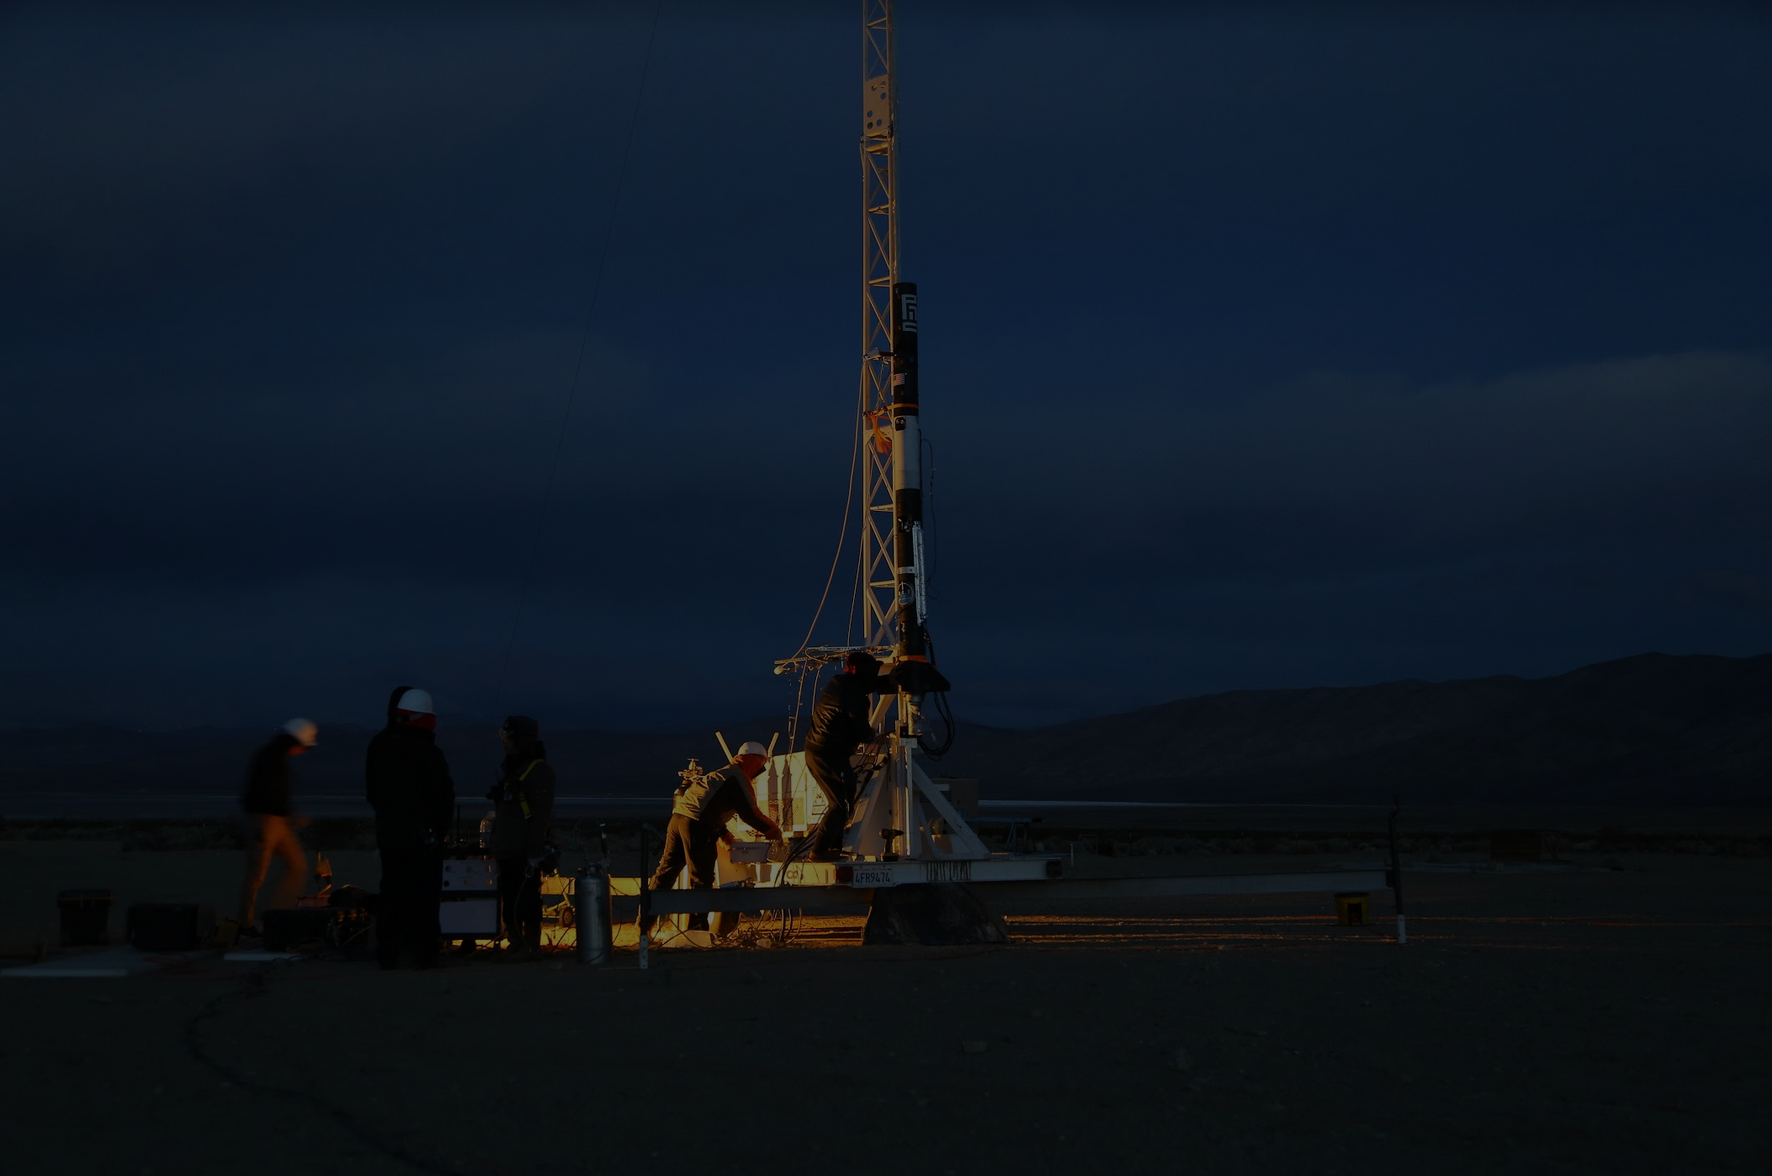
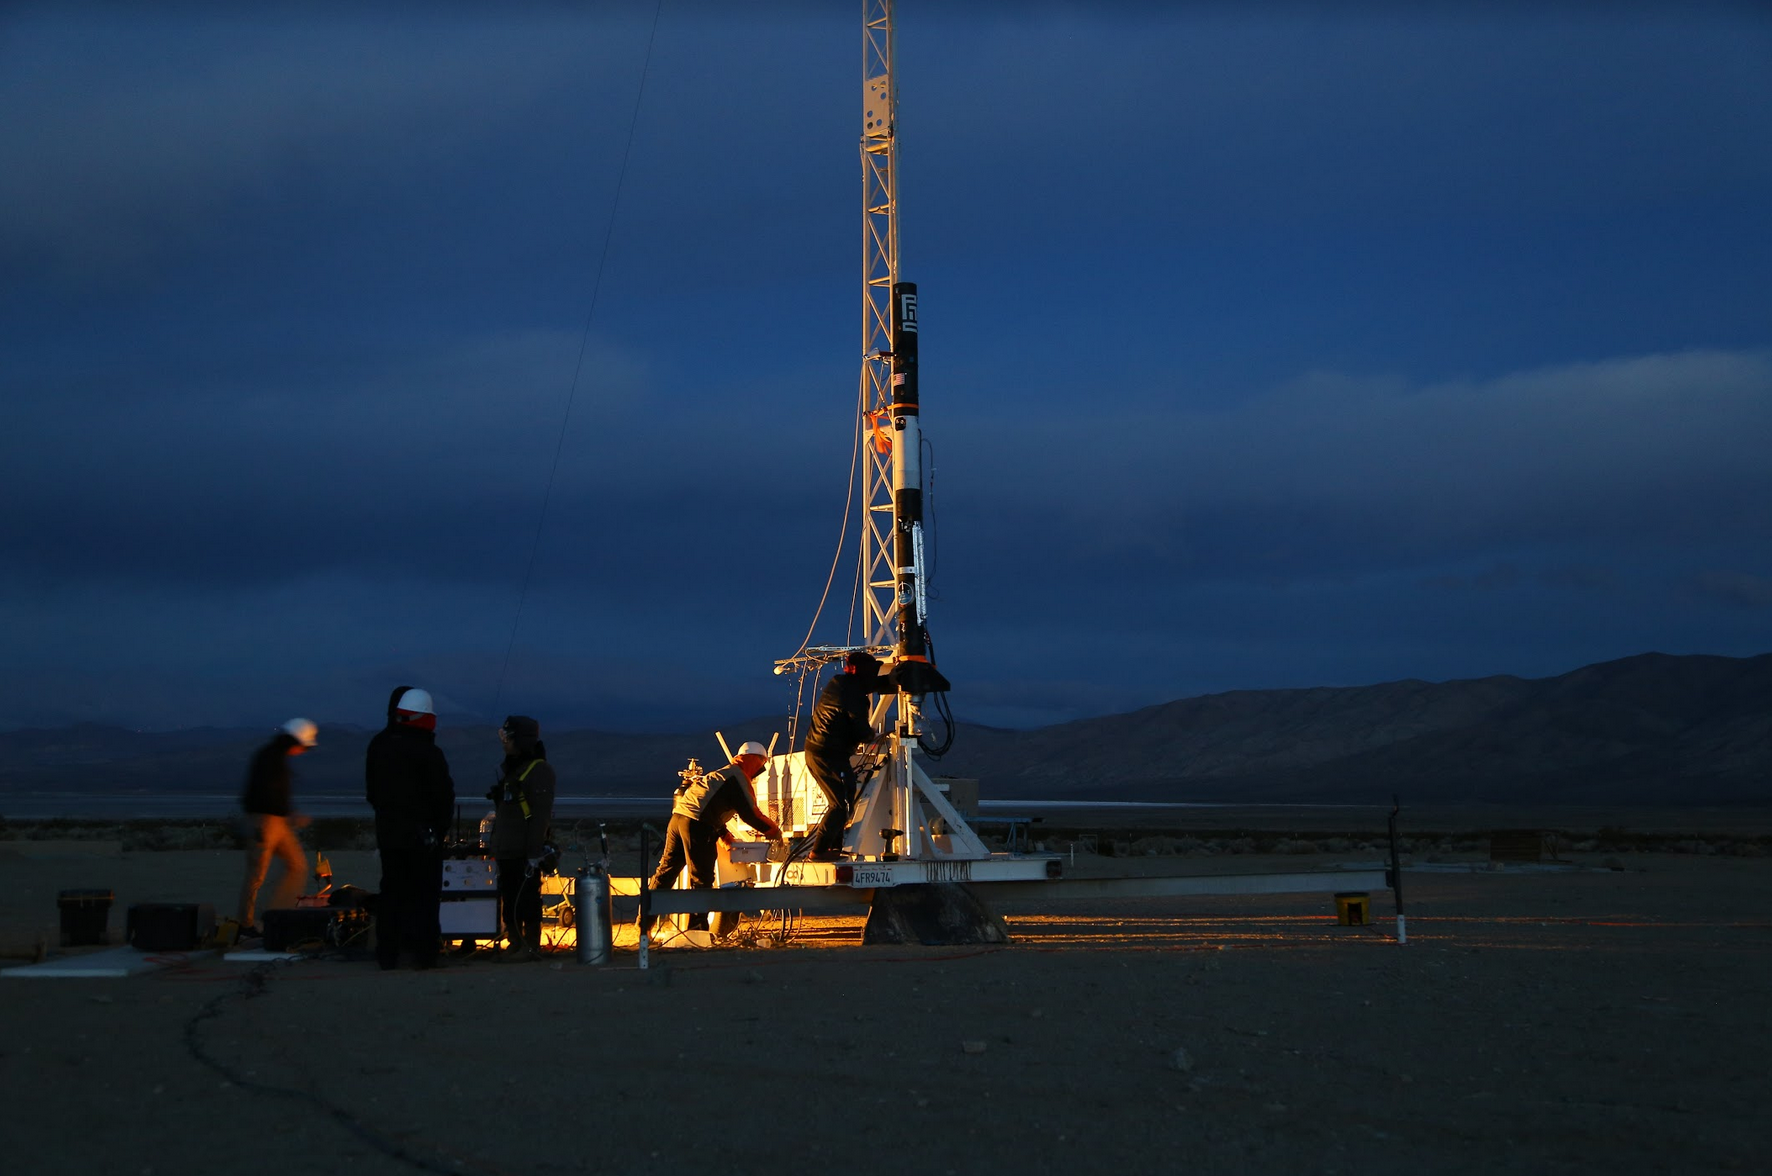
Revert "remove extra team pages, make home splash more subdued"
This reverts commit 15d2fda5ccf982dda0a41bb2ef14c16f5ce2e985.

diff --git a/team.html b/team.html
@@ -1,0 +1,125 @@
+<!DOCTYPE html>
+<html lang="en">
+    <head>
+        <meta charset="UTF-8">
+        <meta name="viewport" content="width=device-width, initial-scale=1, maximum-scale=1">
+        <title>Home | Beach Launch Team</title>
+
+       <link rel="stylesheet" href="css/style.css">
+       <link rel="stylesheet" href="css/home-styles.css">
+       <link rel="stylesheet" href="css/menu.css">
+        <link rel="stylesheet" href="css/team.css">
+       <link rel="stylesheet" href="https://use.fontawesome.com/releases/v5.0.12/css/all.css" integrity="sha384-G0fIWCsCzJIMAVNQPfjH08cyYaUtMwjJwqiRKxxE/rx96Uroj1BtIQ6MLJuheaO9" crossorigin="anonymous">
+    </head>
+
+
+    <body>
+     <div class = "navbanner"></div>
+	      <div class="navbannerContainer">
+	            <span class="navbannerFont">BEACH LAUNCH</span>
+          </div>
+
+         <div class="container">
+            <header>
+                    <nav role="navigation">
+                            <div id="menuToggle">
+                                <input type="checkbox"/>
+                                <span></span>
+                                <span></span>
+                                <span></span>
+                            <ul id="menu">
+                              <a href="index.html"><li>Home</li></a>
+                              <a href="#"><li>About Us</li></a>
+                              <a href="team.html"><li>Donations</li></a>
+                              <a href="team.html"><li>Team</li></a>
+                              <a href="contactus.php"><li>Contact</li></a>
+                            </ul>   
+                            </div>
+                        </nav>
+            </header>
+
+            <main>
+                <!-- <div id="features-list">
+                    <h2>Meet the team</h2>
+
+                    <div class="feature">
+                        <img alt="" src="https://source.unsplash.com/random/100x100" height="" width=""/>
+                        <p>Dignissimos ex quae quia. Hic vitae exercitationem consequatur sapiente odit sed ducimus eligendi.</p>
+                    </div>
+
+                    <div class="feature">
+                        <img alt="" src="https://source.unsplash.com/random/100x100" height="" width=""/>
+                        <p>Inventore reprehenderit quidem sit illum molestiae consequatur voluptatum rerum.</p>
+                    </div>
+
+                    <div class="feature">
+                        <img alt="" src="https://source.unsplash.com/random/100x100" height="" width=""/>
+                        <p>Error qui dolore earum facilis mollitia animi rerum minus. Distinctio et illo tenetur cumque enim ea est.</p>
+                    </div>
+                    <p>Hello</p>
+                </div> -->
+                <div id = "about">
+                    <h2>About Us</h2>
+                    <p>Beach Launch Team is a university student group at Cal State Long Beach dedicated to designing, building, testing, and launching liquid fuel rockets.</p>
+                </div>
+                <div id ="padTop">
+                <section class="meet-the-team container">
+                <div id = "pad">
+                    <h1>Club Officers</h1>
+                </div>
+                    <div class="member-profile">
+                        <i class="fas fa-user-circle avatar-icon"></i>
+                        <h3>Cristian Acosta</h3>
+                        <h4>Project Lead</h4>
+                        <h4>Lorem ipsum dolor sit amet, consectetuer adipiscing elit. Aenean commodo ligula eget dolor. Aenean m</h4>
+                    </div>
+
+                    <div class="member-profile">
+                        <i class="fas fa-user-circle avatar-icon"></i>
+                        <h3>Derek Honkawa</h3>
+                        <h4>Assistant Lead</h4>
+                        <h4>Lorem ipsum dolor sit amet, consectetuer adipiscing elit. Aenean commodo ligula eget dolor. Aenean m</h4>
+                    </div>
+
+                    <div class="member-profile">
+                        <i class="fas fa-user-circle avatar-icon"></i>
+                        <h3>Joshua Jenson</h3>
+                        <h4>Propulsion Engineer</h4>
+                        <h4>Lorem ipsum dolor sit amet, consectetuer adipiscing elit. Aenean commodo ligula eget dolor. Aenean m</h4>
+                    </div>
+
+                    <div class="member-profile">
+                        <i class="fas fa-user-circle avatar-icon"></i>
+                        <h3>Candyce Palsis</h3>
+                        <h4>Relations Officer</h4>
+                        <h4>Lorem ipsum dolor sit amet, consectetuer adipiscing elit. Aenean commodo ligula eget dolor. Aenean m</h4>
+                    </div>
+
+                    <div class="member-profile avatar-icon">
+                        <i class="fas fa-user-circle avatar-icon"></i>
+                        <h3>Hunter Ly</h3>
+                        <h4>Construction Leader</h4>
+                        <h4>Lorem ipsum dolor sit amet, consectetuer adipiscing elit. Aenean commodo ligula eget dolor. Aenean m</h4>
+                    </div>
+
+                    <div class="member-profile">
+                        <i class="fas fa-user-circle avatar-icon"></i>
+                        <h3>Angelica Luquin</h3>
+                        <h4>Construction Leader</h4>
+                        <h4>Lorem ipsum dolor sit amet, consectetuer adipiscing elit. Aenean commodo ligula eget dolor. Aenean m</h4>
+                    </div>
+                </section>
+                </div>
+            </main>
+            <footer>
+                <p>Latest Update: <em><!--#echo var="LAST_MODIFIED"--></em> </p>
+                <p>Web Developers:&emsp;</p>
+                <p><em>Isaac Chavez:&emsp;<span>013756039</span></em></p>
+                <p><em>Ahmed Hamed:&emsp;<span>013340442</span></em></p>
+                <p><em>Raviraj Mane:&emsp;<span>013340442</span></em></p>
+                <p><em>Aman Mehta:&emsp;<span>013340442</span></em></p>
+                <p><em>Juan David Lopez:&emsp;<span>013101593</span></em></p>
+            </footer>
+        </div>
+    </body>
+</html>

diff --git a/team.php b/team.php
@@ -1,0 +1,34 @@
+<!DOCTYPE html>
+<html lang="en">
+    <head>
+        <meta charset="UTF-8">
+        <meta name="viewport" content="width=device-width, initial-scale=1, maximum-scale=1">
+        <title>Gallery | Beach Launch Team</title>
+    
+       <link rel="stylesheet" href="css/style.css"> 
+    </head>
+    <body>
+        <div class="container">
+            <header>
+            </header>
+            <nav>
+                <ul>
+                    <li><a href="index.html">Home</a></li>
+                    <li><a href="gallery.html">Gallery</a></li>
+                    <li><a href="team.php">Team Members</a></li>
+                    <li><a href="contact.php">Contact Us</a></li>
+                </ul>
+            </nav>
+
+            <main>
+                
+            </main>
+            <footer>
+                <p>Latest Update: <em><!--#echo var="LAST_MODIFIED"--></em> </p>
+                <p>Students: <em>Juan David Lopez:<span>013101593</span></em></p>
+            </footer>
+        </div>
+    </body>
+</html>
+
+
